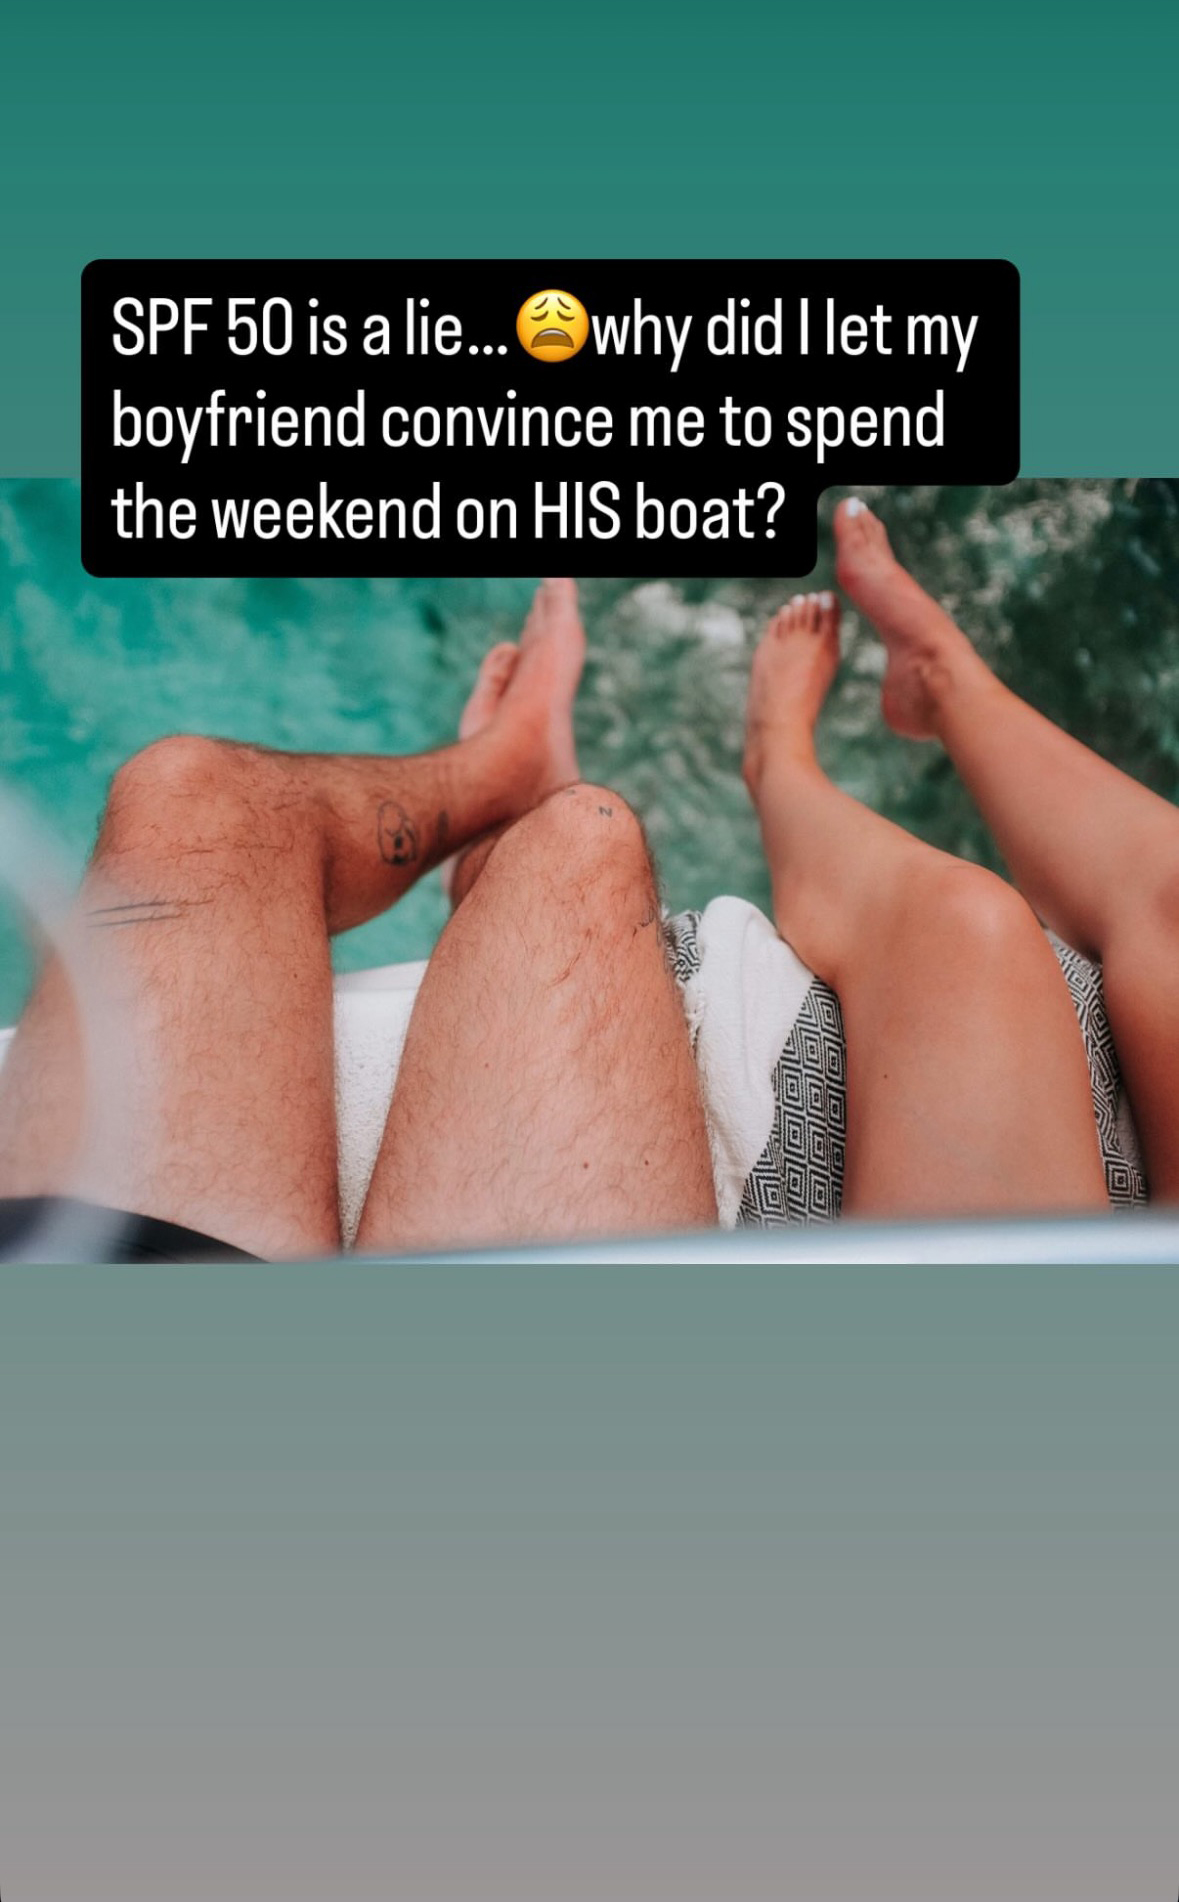
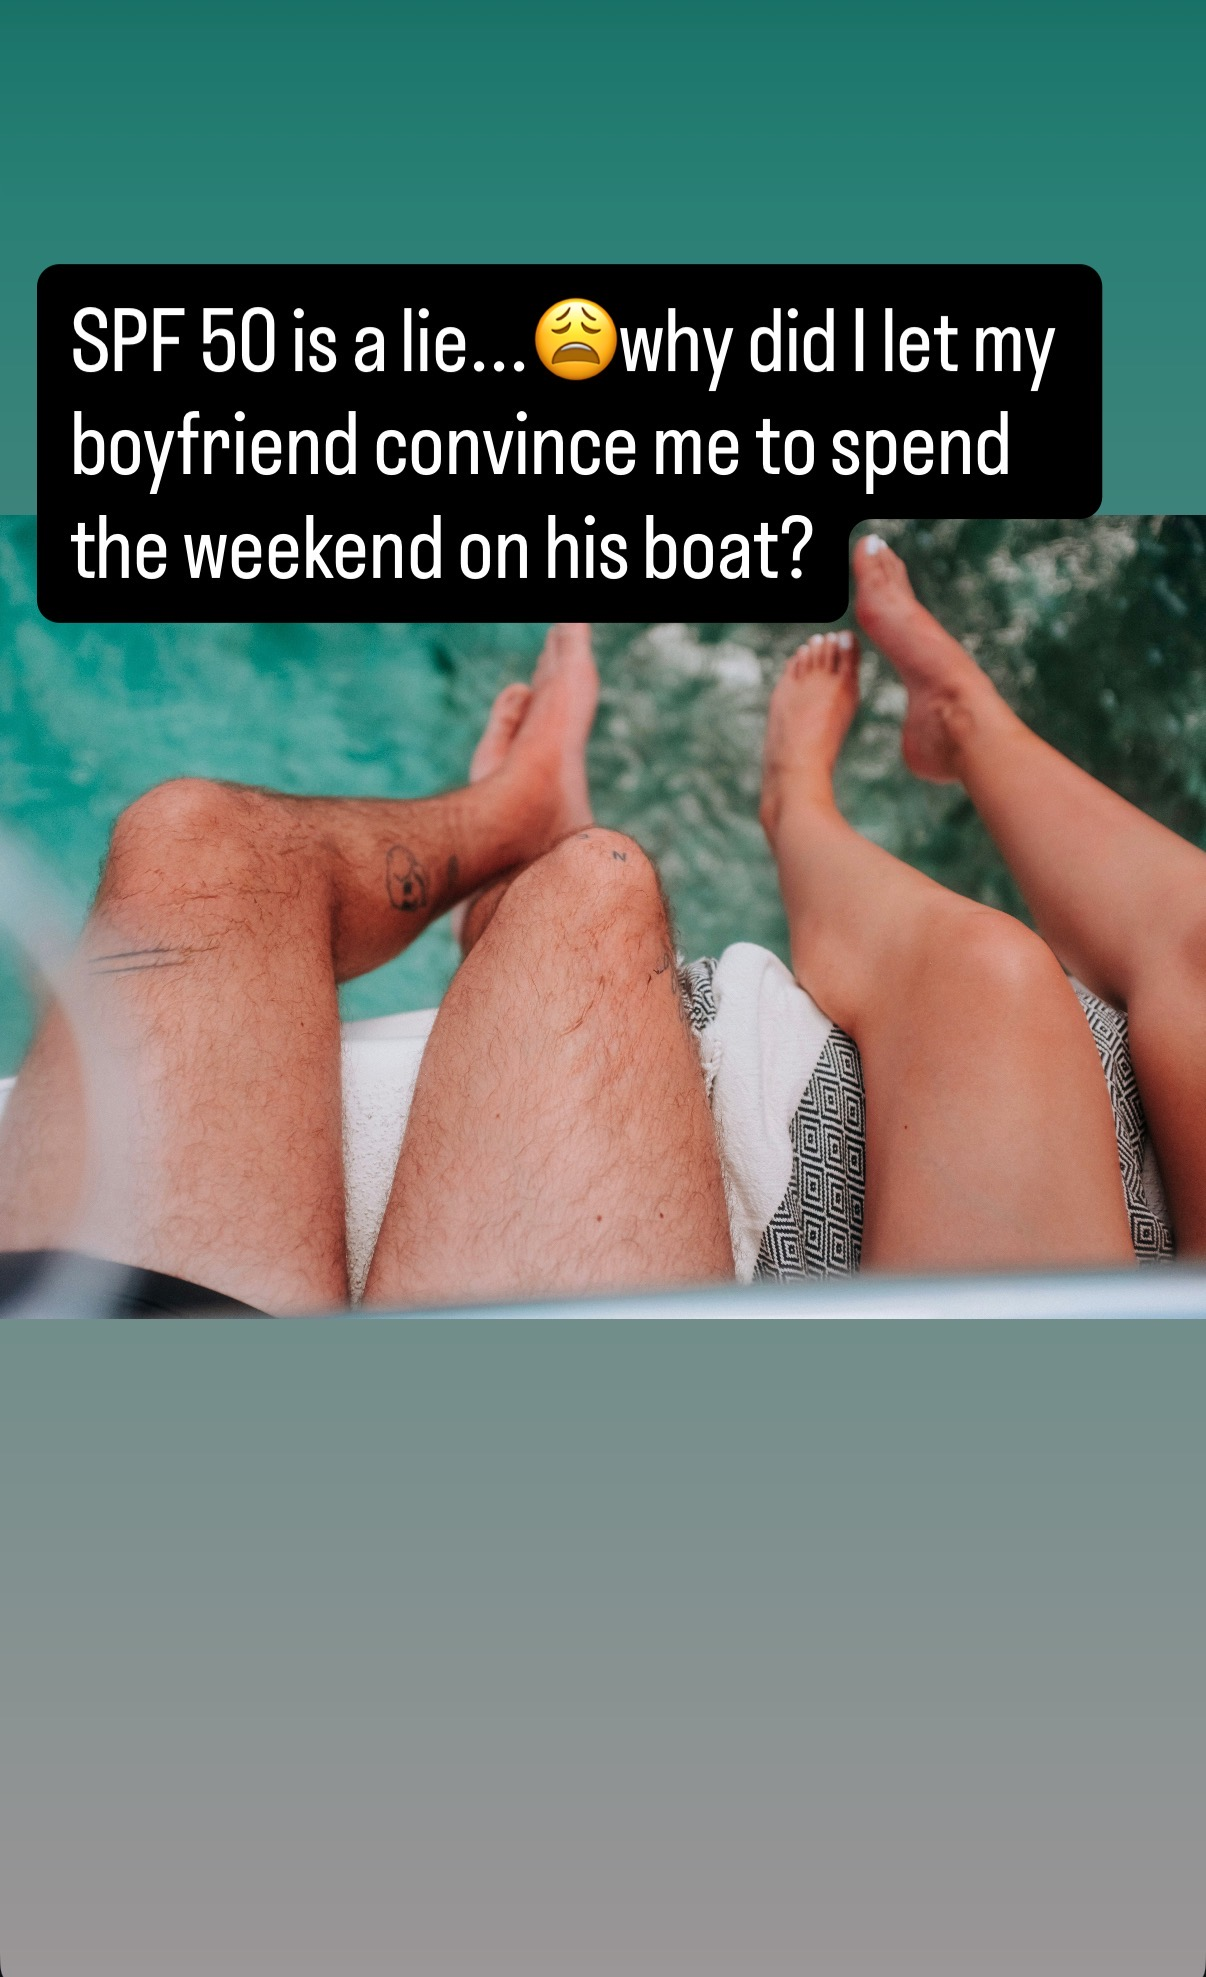
Add files via upload

diff --git a/HB_set3/HB_set3.html b/HB_set3/HB_set3.html
@@ -340,21 +340,21 @@ const stories = [
     caption: '',
     label:   'Airplane',
     type:    '',
-    duration: 10000
+    duration: 15000
   },
   {
-    bg:      'url("filler3.jpg") center/contain no-repeat',
+    bg:      'url("filler.jpg") center/contain no-repeat',
     caption: '',
     label:   'Exploring',
     type:    '',
-    duration: 10000
+    duration: 15000
   },
   {
     bg:     'url("HB-4.jpg") center/contain no-repeat',
     caption: '',
     label:   'Boat',
     type:    '',
-    duration: 10000
+    duration: 15000
   }
 ];
 